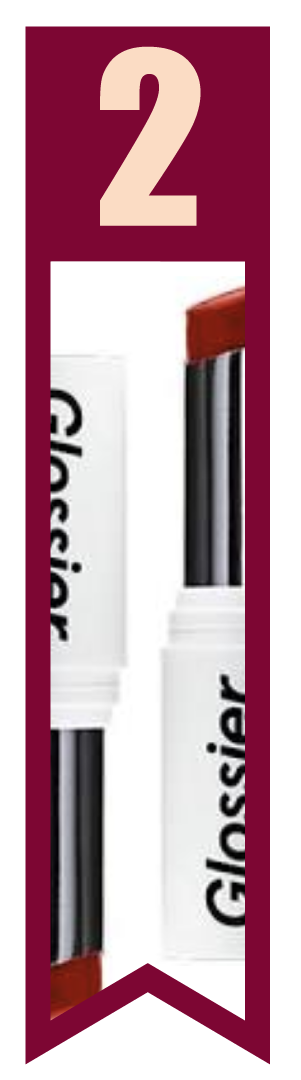
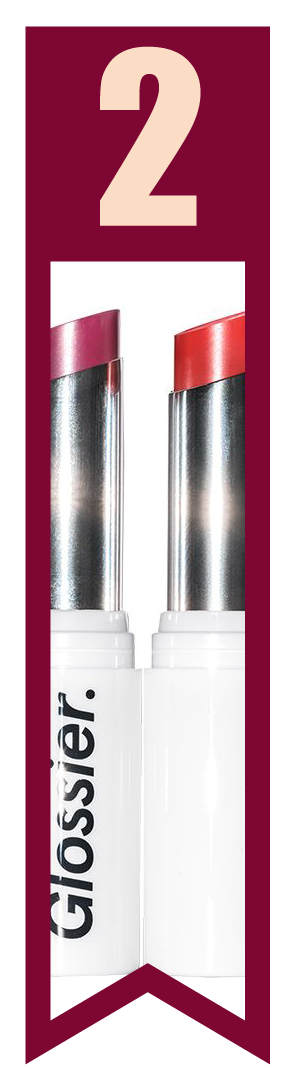
make better

diff --git a/styles/style.css b/styles/style.css
@@ -179,8 +179,14 @@ h1 {
           align-items: center;
 }
 
+footer {
+  font-family: 'Anton', sans-serif;
+  color: #7d0633;
+  line-height: 600%;
+}
+
 body {
-  background-color: #e5a280;
+  background-image: url("../images/background.png");
 }
 
 .chart {
@@ -190,12 +196,12 @@ body {
   display: -webkit-box;
   display: -ms-flexbox;
   display: flex;
-  -webkit-box-pack: baseline;
-      -ms-flex-pack: baseline;
-          justify-content: baseline;
-  -webkit-box-align: baseline;
-      -ms-flex-align: baseline;
-          align-items: baseline;
+  -webkit-box-pack: center;
+      -ms-flex-pack: center;
+          justify-content: center;
+  -webkit-box-align: center;
+      -ms-flex-align: center;
+          align-items: center;
   cursor: url("../images/before.png"), auto;
 }
 
@@ -216,7 +222,10 @@ body {
   background: url("../images/text1.png");
   background-repeat: no-repeat;
   background-size: contain;
+  background-position-y: center;
   cursor: url("../images/after.png"), auto;
+  margin-top: auto;
+  margin-bottom: auto;
 }
 
 .column1:hover {
@@ -236,6 +245,7 @@ body {
   background: url("../images/photo1.png");
   background-repeat: no-repeat;
   background-size: contain;
+  background-position-y: center;
   cursor: url("../images/after.png"), auto;
 }
 
@@ -256,6 +266,7 @@ body {
   background: url("../images/text2.png");
   background-repeat: no-repeat;
   background-size: contain;
+  background-position-y: center;
   cursor: url("../images/after.png"), auto;
 }
 
@@ -276,6 +287,7 @@ body {
   background: url("../images/photo2.png");
   background-repeat: no-repeat;
   background-size: contain;
+  background-position-y: center;
   cursor: url("../images/after.png"), auto;
 }
 
@@ -296,6 +308,7 @@ body {
   background: url("../images/text3.png");
   background-repeat: no-repeat;
   background-size: contain;
+  background-position-y: center;
   cursor: url("../images/after.png"), auto;
 }
 
@@ -316,6 +329,7 @@ body {
   background: url("../images/photo3.png");
   background-repeat: no-repeat;
   background-size: contain;
+  background-position-y: center;
   cursor: url("../images/after.png"), auto;
 }
 
@@ -336,6 +350,7 @@ body {
   background: url("../images/text4.png");
   background-repeat: no-repeat;
   background-size: contain;
+  background-position-y: center;
   cursor: url("../images/after.png"), auto;
 }
 
@@ -356,6 +371,7 @@ body {
   background: url("../images/photo4.png");
   background-repeat: no-repeat;
   background-size: contain;
+  background-position-y: center;
   cursor: url("../images/after.png"), auto;
 }
 
@@ -376,6 +392,7 @@ body {
   background: url("../images/text5.png");
   background-repeat: no-repeat;
   background-size: contain;
+  background-position-y: center;
   cursor: url("../images/after.png"), auto;
 }
 
@@ -396,6 +413,7 @@ body {
   background: url("../images/photo5.png");
   background-repeat: no-repeat;
   background-size: contain;
+  background-position-y: center;
   cursor: url("../images/after.png"), auto;
 }
 
@@ -403,5 +421,10 @@ back {
   position: fixed;
   top: 5%;
   left: 5%;
+}
+
+back:hover {
+  -webkit-filter: drop-shadow(16px 16px 16px white);
+          filter: drop-shadow(16px 16px 16px white);
 }
 /*# sourceMappingURL=style.css.map */

diff --git a/styles/style.scss b/styles/style.scss
@@ -132,8 +132,14 @@ h1{
     @include flexcenter();
 }
 
+footer{
+  font-family: 'Anton', sans-serif;
+  color: $color3;
+  line-height: 600%;
+}
+
 body{
-background-color:$color2;
+  background-image: url("../images/background.png");
 }
 
 
@@ -144,10 +150,9 @@ background-color:$color2;
     height:$a;
     margin: auto;
     display:flex;
-    justify-content: baseline;
-    align-items:baseline ;
+    justify-content: center;
+    align-items:center ;
     cursor:url("../images/before.png"), auto;
-
 }
 
 .column1{
@@ -158,7 +163,10 @@ background-color:$color2;
     background: url("../images/text1.png");
     background-repeat: no-repeat;
     background-size: contain;
+    background-position-y: center;
     cursor:url("../images/after.png"), auto;
+    margin-top: auto;
+    margin-bottom: auto;
   }
 
     .column1:hover{
@@ -169,6 +177,7 @@ background-color:$color2;
     background: url("../images/photo1.png");
     background-repeat: no-repeat;
     background-size: contain;
+    background-position-y: center;
     cursor:url("../images/after.png"), auto;
   }
 
@@ -180,6 +189,7 @@ background-color:$color2;
     background: url("../images/text2.png");
     background-repeat: no-repeat;
     background-size: contain;
+    background-position-y: center;
     cursor:url("../images/after.png"), auto;
   }
 
@@ -191,6 +201,7 @@ background-color:$color2;
     background: url("../images/photo2.png");
     background-repeat: no-repeat;
     background-size: contain;
+    background-position-y: center;
     cursor:url("../images/after.png"), auto;
   }
 
@@ -203,6 +214,7 @@ background-color:$color2;
     background: url("../images/text3.png");
     background-repeat: no-repeat;
     background-size: contain;
+    background-position-y: center;
     cursor:url("../images/after.png"), auto;
   }
 
@@ -214,6 +226,7 @@ background-color:$color2;
     background: url("../images/photo3.png");
     background-repeat: no-repeat;
     background-size: contain;
+    background-position-y: center;
     cursor:url("../images/after.png"), auto;
   }
 
@@ -225,6 +238,7 @@ background-color:$color2;
     background: url("../images/text4.png");
     background-repeat: no-repeat;
     background-size: contain;
+    background-position-y: center;
     cursor:url("../images/after.png"), auto;
   }
 
@@ -236,6 +250,7 @@ background-color:$color2;
     background: url("../images/photo4.png");
     background-repeat: no-repeat;
     background-size: contain;
+    background-position-y: center;
     cursor:url("../images/after.png"), auto;
   }
 
@@ -247,6 +262,7 @@ background-color:$color2;
     background: url("../images/text5.png");
     background-repeat: no-repeat;
     background-size: contain;
+    background-position-y: center;
     cursor:url("../images/after.png"), auto;
   }
 
@@ -258,6 +274,7 @@ background-color:$color2;
     background: url("../images/photo5.png");
     background-repeat: no-repeat;
     background-size: contain;
+    background-position-y: center;
     cursor:url("../images/after.png"), auto;
   }
 
@@ -265,4 +282,8 @@ back{
     position:fixed;
     top:5%;
     left:5%;
+}
+
+back:hover{
+  filter: drop-shadow(16px 16px 16px white);
 }

diff --git a/index.html b/index.html
@@ -37,8 +37,11 @@
 
   </div>
     
-        
-       
+      <center>
+       <footer>
+         posted by: Jing Dong | email: dongj340@newschool.edu
+       </footer>
+      </center>
 
             
     </body>

diff --git a/pages/page.html b/pages/page.html
@@ -109,7 +109,7 @@
 
 <a href="../index.html">
     <back>
-    <img src="../images/back.png">
+    <img src="../images/back-hover.png">
     </back>
     </a>
 
